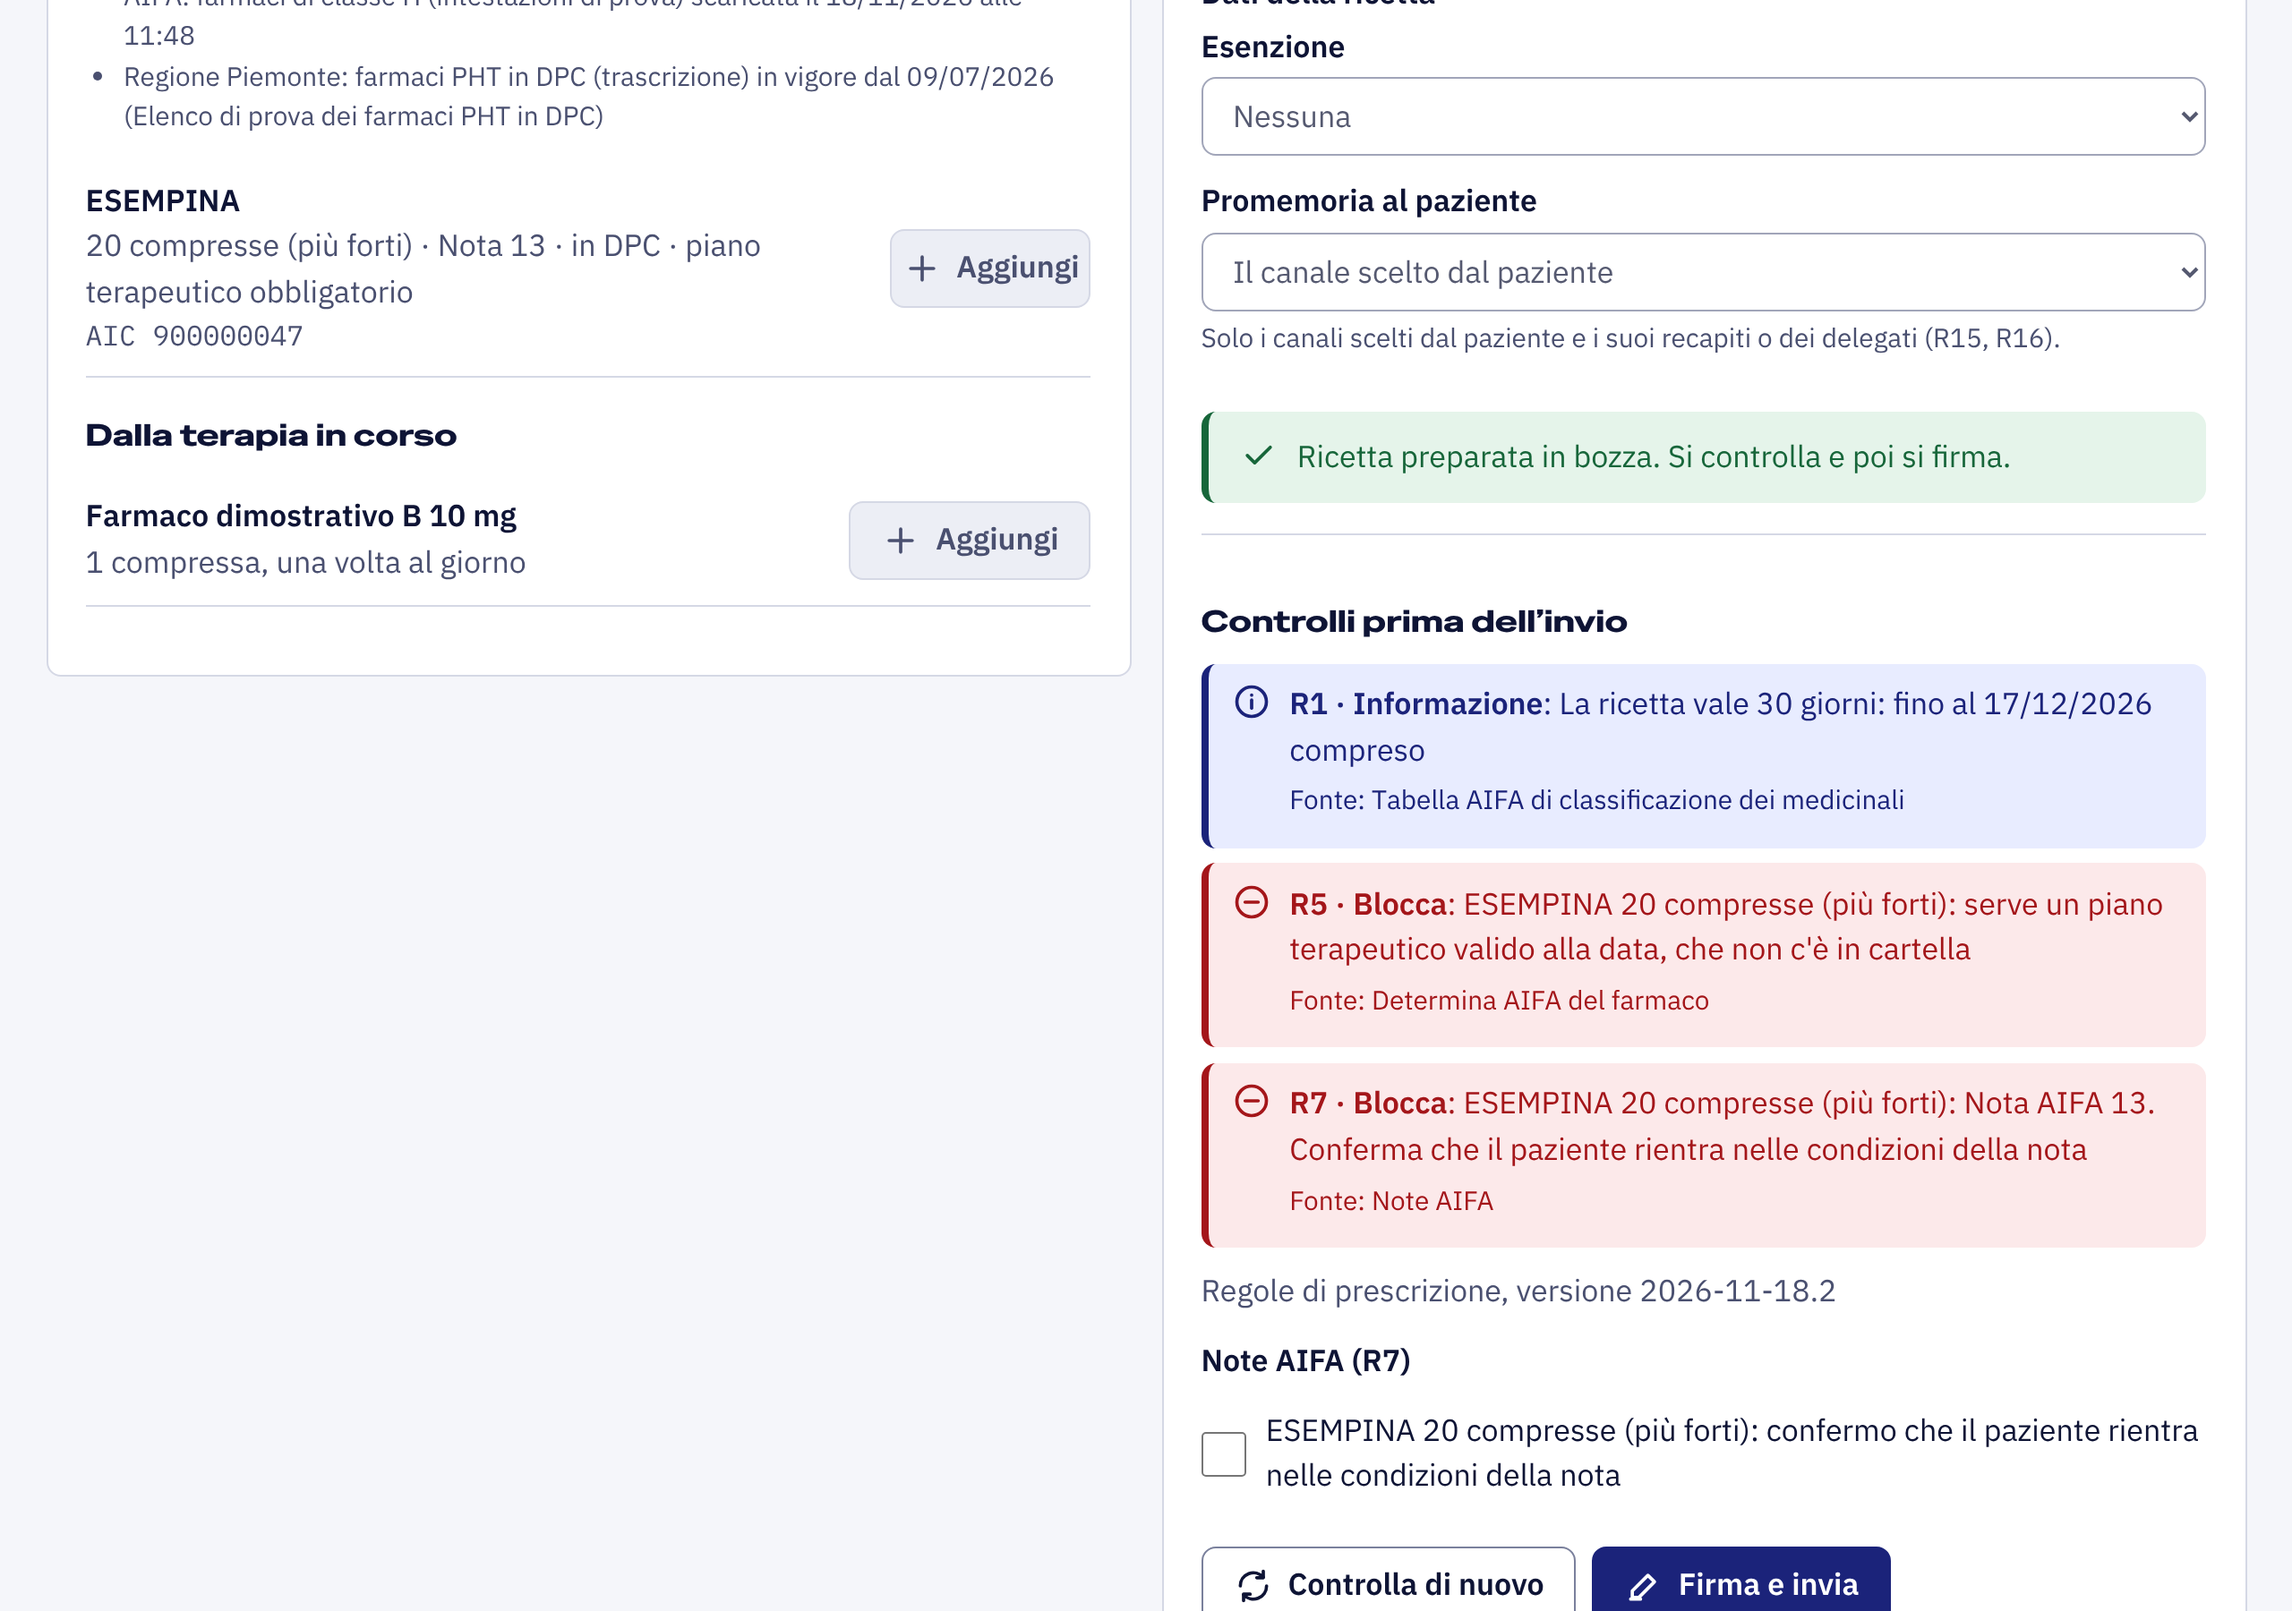
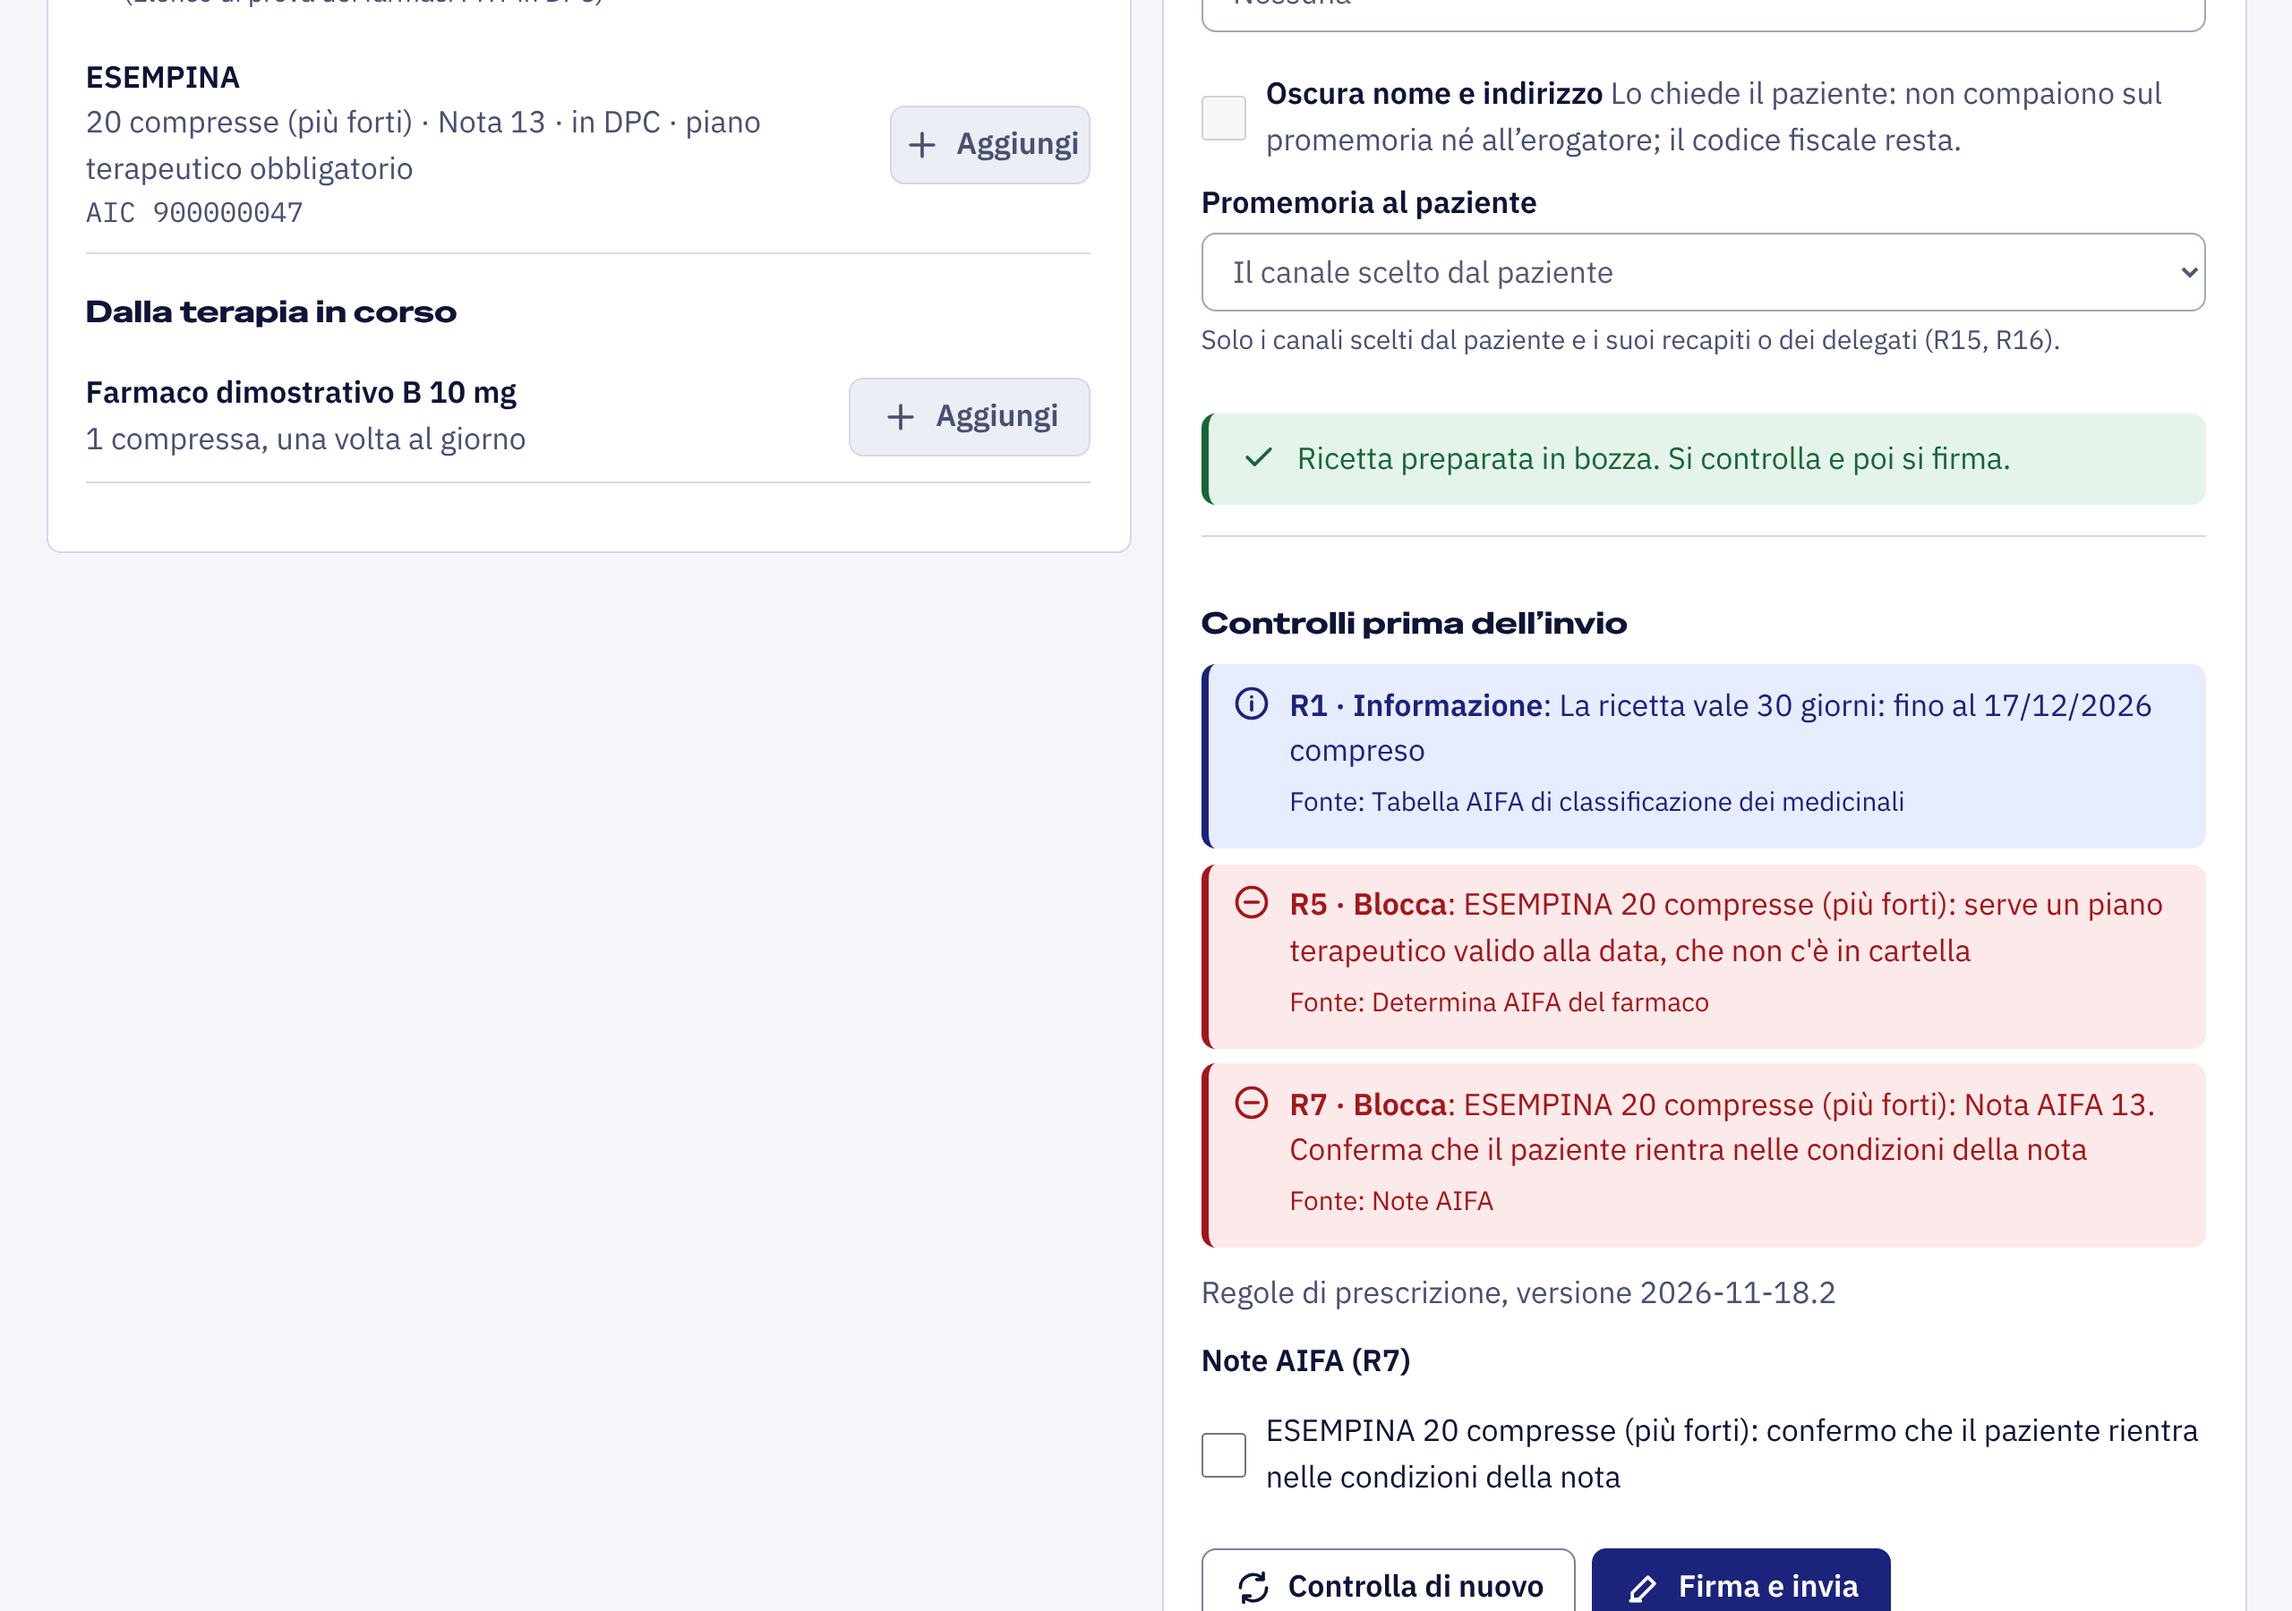
Tappa 7: sabotaggi, schermate del promemoria e avanzamento
- 10 sabotaggi nuovi, tutti rossi e poi verdi.
- Schermate 17 (pannello del promemoria) e 18 (PDF del promemoria).
- docs/avanzamento.md e docs/interfaccia.md aggiornati.

Claude-Session: https://claude.ai/code/session_01Tv4Yo344qXk13ZKY4SDVSw

diff --git a/apps/api/test/e2e/schermate.ts b/apps/api/test/e2e/schermate.ts
@@ -7,7 +7,8 @@
  * Vuole DATABASE_URL e APP_ENCRYPTION_KEY, e un medico che non ha ancora attivato il secondo
  * fattore (il primo accesso dopo il seed). Solo pazienti inventati; nessun sito esterno.
  */
-import { mkdirSync, mkdtempSync, rmSync } from 'node:fs';
+import { execFileSync } from 'node:child_process';
+import { mkdirSync, mkdtempSync, rmSync, writeFileSync } from 'node:fs';
 import type { AddressInfo } from 'node:net';
 import { tmpdir } from 'node:os';
 import { join, resolve } from 'node:path';
@@ -82,6 +83,19 @@ try {
   await reminder.getByRole('button', { name: 'Invia' }).waitFor();
   await reminder.evaluate((el) => el.scrollIntoView({ block: 'center' }));
   await shot(page, '17-promemoria');
+  // Il PDF del promemoria come lo riceve il paziente, in immagine (serve pdftoppm, di poppler).
+  const href = await reminder.getByRole('link', { name: 'Promemoria (PDF)' }).getAttribute('href');
+  const pdfPath = join(work, 'promemoria.pdf');
+  writeFileSync(pdfPath, await (await page.request.get(`${base}${href}`)).body());
+  execFileSync('pdftoppm', [
+    '-png',
+    '-r',
+    '96',
+    '-singlefile',
+    pdfPath,
+    join(OUT, '18-promemoria-pdf'),
+  ]);
+  console.log('  18-promemoria-pdf.png');
 
   // Il paziente della ricetta appena inviata: cartella, scheda della terapia con lo storico.
   const sent = await db.execute<{ patient_id: string; therapy_id: string }>(sql`

diff --git a/docs/avanzamento.md b/docs/avanzamento.md
@@ -6,6 +6,7 @@ Stato del lavoro, tappa per tappa. Una sessione nuova riparte da qui e da `CLAUD
 
 - **Primo giro (tappe 0–6) chiuso.** Pull request #1, #2 e #3 su `main`, l'ultima con la terapia completa e i collegamenti pronti (D79–D88), unita con il via di Simone del 18/11/2026.
 - **Secondo giro (tappe 7–10) avviato** con il via di Simone: «fai tutto, nell'ordine che ritieni giusto» (D90). Ordine: promemoria e invio, certificati INPS (terza fermata), voci cliniche, presidi e seguito delle prestazioni (fermata finale). Branch `tappe-7-8`, poi `tappe-9-10`.
+- **Tappa 7 fatta** (promemoria e invio, D92–D99); si prosegue con la tappa 8 sullo stesso branch.
 
 **Fuori dal secondo giro, da fare dopo** (nessuno avviato):
 
@@ -236,6 +237,39 @@ Scelta di Simone con il pulsante: «Terapia + collegamenti pronti». Decisioni D
 
 - Stampa su una stampante vera; lettori di schermo veri; la scheda con la Dr.ssa Rocca.
 
+### Tappa 7 – Promemoria e invio
+
+Fonti ufficiali lette il 18/11/2026 (sessione nell'ambiente «Folder», D92): DM 2/11/2011 allegato 2; specifiche del Sistema TS, prescrizione, 5/12/2024; Regione Piemonte, SIRPE «Cartelle cliniche MMG e PLS»; disciplinare tecnico della ricetta bianca, 1/12/2022; DM 30/12/2020. Dettagli in `docs/ricetta.md`, «Promemoria e invio».
+
+**Fatto**
+
+- **Promemoria della ricetta SSN** dal modello del decreto. Contiene il codice a barre 3-of-9 alle misure del decreto, il codice di autenticazione del SAC e la riga piemontese «codice regionale – nominativo». I dati si fissano all'invio, così ogni ristampa è identica. C'è anche il foglio «solo NRE».
+- **Codice di autenticazione.** Senza, la ricetta va in errore e il promemoria non esce (D96). Prima dell'invio servono la regione dello studio e il codice fiscale del medico (D95).
+- **Ricetta bianca.** Si consegna solo il PDF del SAC, conservato byte per byte. Nell'editor si indicano ripetibilità e validità (D93).
+- **Oscuramento di nome e indirizzo** su richiesta del paziente, per le ricette SSN.
+- **Invio per email** (promemoria allegato) **e SMS** (solo il numero), al paziente o a un delegato con delega valida oggi. Il servizio è simulato e ogni consegna è registrata in una tabella che non si modifica (D98).
+- **Tempo massimo di attesa dell'invio**: 8 secondi, come indica la Regione (D94).
+- **Interfaccia.** Pannello «Promemoria» dopo l'invio, nella coda delle ricette e nello storico. Schermate 17 e 18.
+- **Migrazione 0008.** Campi `auth_code`, `sac_doctor_name`, `pin_nrbe`, `obscured`, ripetibilità delle righe, `studio.region_name`, `doctor_profile.fiscal_code`. Tabelle `prescription_document` e `reminder_delivery`, nell'esportazione.
+
+**Provato**
+
+- **Servizio**: 17 prove nuove (`apps/api/test/promemoria.test.ts`), che leggono il testo vero dei PDF con pdfjs-dist. Coprono campi del modello, riga del medico, codice di autenticazione, solo NRE, oscuramento, ristampa identica dopo un cambio di anagrafica, rifiuto senza codice, specialistica, ricetta bianca byte per byte, ripetibilità solo sulla bianca, email e SMS, deleghe valide e revocate e di un altro paziente, servizio di invio irraggiungibile, segreteria, prerequisiti prima dell'invio, tempo massimo.
+- **Code 39**: ogni carattere disegna le stesse barre di bwip-js, che è un'implementazione indipendente (D99).
+- **Browser**: 2 prove nuove, 21 in tutto, con axe, bersagli di 44 px e tablet.
+- **Prove complete**: 598 TypeScript e 5 di `sync/`, verdi.
+- **Sabotaggi**: 10 nuovi, tutti rossi e poi verdi (registro sotto).
+
+**Non fatto**
+
+- Posizioni di stampa, suddivisione dell'NRE nei codici a barre e dicitura delle specifiche di stampa del 1/3/2016: il documento non è sul portale. Carattere OCR-A per l'NRE in chiaro (D97).
+- Fornitore vero di email e SMS; frase regionale nell'ultima riga del promemoria.
+
+**Non provato**
+
+- Lettura del codice a barre con un lettore vero; stampa su carta.
+- Il promemoria con la Dr.ssa Rocca e con una farmacia.
+
 ## Richieste di Simone tra le fermate (18/11/2026)
 
 Annotate come decisioni per la tappa 6:
@@ -458,3 +492,13 @@ Ogni controllo nuovo viene rotto apposta (`scripts/sabotaggio.sh`), deve diventa
 | D83: su carta solo il foglio                              | Regola di stampa tolta                             | Rosso, poi verde                                                                                                                                                                   |
 | Barra delle cartelle corta sulle pagine corte             | Righe della griglia come prima                     | Rosso, poi verde                                                                                                                                                                   |
 | Prova del menu senza dipendere dai tempi                  | Ricerca in tutta la pagina                         | Rosso, poi verde                                                                                                                                                                   |
+| Senza codice di autenticazione la ricetta non vale        | Controllo tolto                                    | Rosso, poi verde                                                                                                                                                                   |
+| Ricetta bianca: solo il PDF del SAC                       | Ramo della bianca tolto                            | Rosso, poi verde                                                                                                                                                                   |
+| Oscuramento di nome e indirizzo                           | Oscuramento ignorato                               | Rosso, poi verde                                                                                                                                                                   |
+| Delega revocata non vale                                  | Revoca ignorata                                    | Rosso, poi verde                                                                                                                                                                   |
+| Ristampa dai dati fissati all'invio                       | Dati ricostruiti dall'anagrafica di oggi           | Rosso, poi verde                                                                                                                                                                   |
+| Tempo massimo di attesa dell'invio                        | Attesa mille volte più lunga                       | Rosso, poi verde                                                                                                                                                                   |
+| Prima dell'invio il promemoria si deve poter fare         | Controllo tolto                                    | Rosso, poi verde                                                                                                                                                                   |
+| Documenti del promemoria immutabili                       | Trigger solo sulla cancellazione                   | Rosso, poi verde                                                                                                                                                                   |
+| Code 39: largo 2,5 volte lo stretto                       | Rapporto 3                                         | Rosso, poi verde                                                                                                                                                                   |
+| Pannello del promemoria dopo l'invio (browser)            | Pannello tolto dall'editor                         | Rosso, poi verde                                                                                                                                                                   |

diff --git a/docs/interfaccia.md b/docs/interfaccia.md
@@ -30,6 +30,8 @@ All'accesso si sceglie un utente del seed (`medico`, `segreteria`, `sostituto`);
 | ![](schermate/14-schema-orario.png)            | Schema orario da stampare: momento della giornata, come si prende, fino a quando (D83)                             |
 | ![](schermate/15-recapiti.png)                 | Anagrafica e recapiti modificabili dalla cartella (D86)                                                            |
 | ![](schermate/16-archivio.png)                 | Archivio del titolare: che cosa vede la segreteria ed esportazione completa (D84)                                  |
+| ![](schermate/17-promemoria.png)               | Promemoria dopo l’invio: PDF, solo NRE, email o SMS al paziente o a un delegato (tappa 7)                          |
+| ![](schermate/18-promemoria-pdf.png)           | Il promemoria della ricetta SSN dal modello del DM 2/11/2011, con codice di autenticazione e riga piemontese (D93) |
 
 Le schermate si rigenerano con `test/e2e/schermate.ts` (istruzioni in testa al file), su un database appena preparato con il seed.
 
@@ -41,6 +43,7 @@ Le schermate si rigenerano con `test/e2e/schermate.ts` (istruzioni in testa al f
 - **Ricette**: la segreteria prepara e manda alla firma; il medico controlla, conferma le note, scrive i motivi e firma. Se l'ente non risponde, la ricetta rossa; se l'esito è incerto, niente ricetta rossa finché non è chiaro.
 - **Storico** di ogni farmaco e prestazione: confezioni degli ultimi 12 mesi, autori, controlli, passaggi con l'ente; annullamento solo se l'ente non ha ancora lavorato la ricetta, e le annullate restano (D70).
 - **Terapia**: nuova, modifica, sospensione con motivo (la reazione avversa va tra le allergie), ripresa, schema orario da stampare (D80–D83). I controlli formali si vedono prima di salvare, vicino al campo, e il servizio li ripete.
+- **Promemoria** (tappa 7): dopo l’invio, nell’editor, nella coda delle ricette e nello storico. La ricetta bianca consegna solo il PDF del SAC (D93).
 - **Accesso**: password e secondo fattore; dopo 5 minuti senza attività la sessione si blocca e si sblocca con il codice. All'uscita il browser non conserva dati dei pazienti.
 
 ## Accessibilità (WCAG 2.2 AA)
